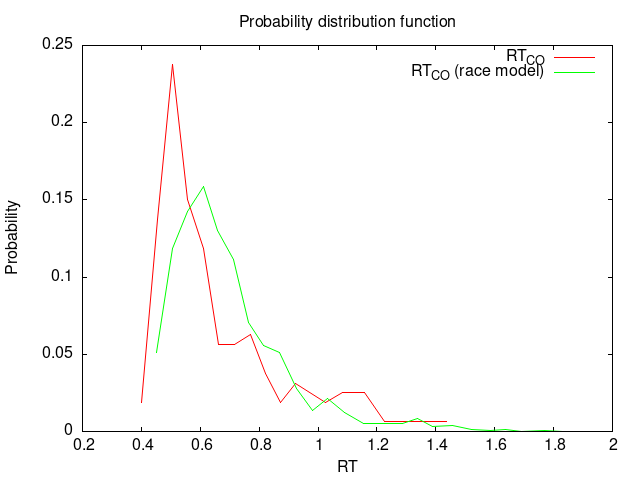
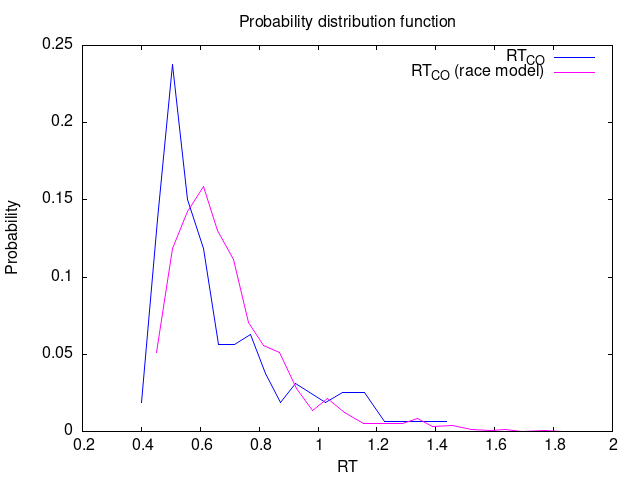
attempted 9

diff --git a/src/homework_3.rs b/src/homework_3.rs
@@ -114,6 +114,9 @@ pub fn run() {
     let prob = vec![prob1, prob2];
     let acc = vec![acc1, acc2];
 
+    writeln!(stdin, "set style line 1 lc rgb \"#0000FF\"").unwrap();
+    writeln!(stdin, "set style line 2 lc rgb \"#FF00FF\"").unwrap();
+
     writeln!(stdin, "set output \"homework_3_8_probability_distribution_function.png\"").unwrap();
     writeln!(stdin, "set title \"Probability distribution function\"").unwrap();
     writeln!(stdin, "set xlabel \"RT\"").unwrap();
@@ -122,7 +125,7 @@ pub fn run() {
     write!(stdin, " '-' with lines ls 1 title \"RT_{{CO}}\", ").unwrap();
     write!(stdin, " '-' with lines ls 2 title \"RT_{{CO}} (race model)\"").unwrap();
     writeln!(stdin).unwrap();
-    for p in prob {
+    for p in &prob {
         for (x, y) in p {
             writeln!(stdin, "{} {}", x, y).unwrap();
         }
@@ -143,6 +146,42 @@ pub fn run() {
         }
         writeln!(stdin, "e").unwrap();
     }
+
+    // 9.
+    let rt_co = &prob[0];
+    let rt_race = &prob[1];
+
+    // most likely
+    println!();
+    println!("max");
+
+    let mut max_x = 0.0;
+    let mut max_y = f64::MIN;
+
+    for &(x, y) in rt_co.iter() {
+        if y > max_y {
+            max_x = x;
+            max_y = y;
+        }
+    }
+
+    println!("RC_{{CO}}       : {}", max_x);
+
+    let mut max_x = 0.0;
+    let mut max_y = f64::MIN;
+
+    for &(x, y) in rt_race.iter() {
+        if y > max_y {
+            max_x = x;
+            max_y = y;
+        }
+    }
+
+    println!("RC_{{CO}}^{{race}}: {}", max_x);
+
+    // average RT
+    
+    // median RT
 }
 
 fn compute_prob_and_acc(data: &[f64]) -> (Vec::<(f64, f64)>, Vec::<(f64, f64)>) {